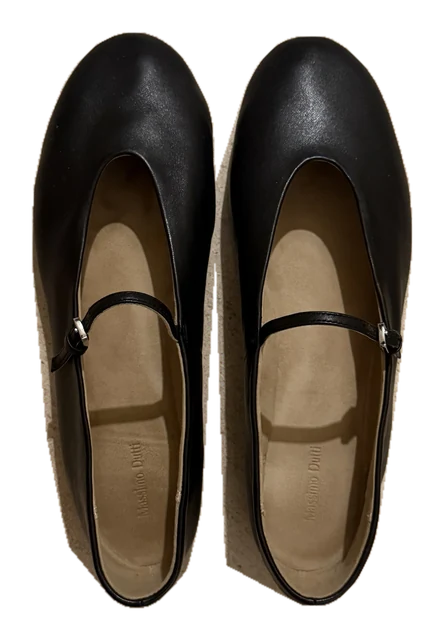
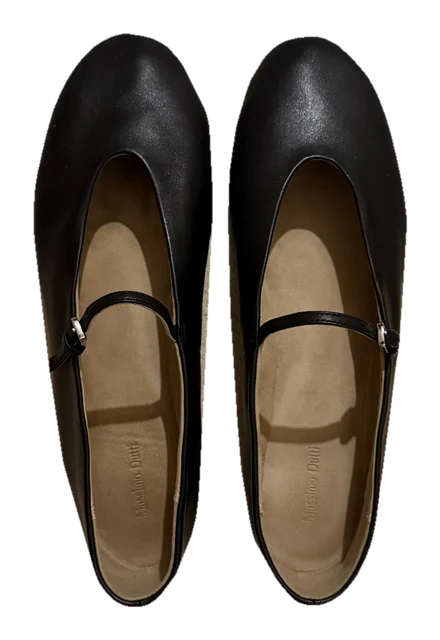
Cleaner shoe cut-outs
Claude-Session: https://claude.ai/code/session_015SQ6x2NYkgXhrEuzvt1gq2

diff --git a/index.html b/index.html
@@ -655,10 +655,10 @@ function seed(){
     {id:'i9',name:'Straight indigo jeans',short:'jeans',cat:'bottom',kind:'jeans',color:'#4A5A78',colorName:'Indigo',fabric:'Denim',warm:[0,26],care:'Machine wash cold',place:'Drawer'},
     {id:'i10',name:'Camel midi skirt',short:'midi skirt',cat:'bottom',kind:'skirt',color:'#B88A62',colorName:'Tan',fabric:'Suede',warm:[12,26],care:'Specialist clean',place:'Bedroom wardrobe'},
     {id:'i11',name:'Brick slip dress',short:'brick dress',cat:'dress',kind:'dress',color:'#7C3F2E',colorName:'Brick',fabric:'Satin',warm:[14,30],care:'Hand wash',place:'Bedroom wardrobe',fav:true},
-    {id:'i19',name:'Brown mary janes',short:'brown mary janes',cat:'shoes',kind:'loafers',color:'#6B3F26',colorName:'Chocolate',fabric:'Leather',brand:'Massimo Dutti',warm:[10,30],noRain:true,care:'Polish',place:'Shoe rack',src:'photos/pieces/shoes-brown-mary-janes.webp'},
-    {id:'i21',name:'Black mary janes',short:'black mary janes',cat:'shoes',kind:'loafers',color:'#1F1B19',colorName:'Black',fabric:'Leather',brand:'Massimo Dutti',warm:[10,30],noRain:true,care:'Polish',place:'Shoe rack',src:'photos/pieces/shoes-black-mary-janes.webp'},
-    {id:'i12',name:'Black chain loafers',short:'loafers',cat:'shoes',kind:'loafers',color:'#1F1B19',colorName:'Black',fabric:'Leather',brand:'Aldo',warm:[4,28],care:'Polish',place:'Shoe rack',src:'photos/pieces/shoes-black-loafers.webp'},
-    {id:'i13',name:'Black ankle boots',short:'ankle boots',cat:'shoes',kind:'boots',color:'#1F1B19',colorName:'Black',fabric:'Leather',warm:[-5,17],rain:true,care:'Polish & waterproof',place:'Shoe rack',src:'photos/pieces/shoes-black-ankle-boots.webp'},
+    {id:'i19',name:'Brown mary janes',short:'brown mary janes',cat:'shoes',kind:'loafers',color:'#6B3F26',colorName:'Chocolate',fabric:'Leather',brand:'Massimo Dutti',warm:[10,30],noRain:true,care:'Polish',place:'Shoe rack',src:'photos/pieces/shoes-brown-mary-janes.webp?v=2'},
+    {id:'i21',name:'Black mary janes',short:'black mary janes',cat:'shoes',kind:'loafers',color:'#1F1B19',colorName:'Black',fabric:'Leather',brand:'Massimo Dutti',warm:[10,30],noRain:true,care:'Polish',place:'Shoe rack',src:'photos/pieces/shoes-black-mary-janes.webp?v=2'},
+    {id:'i12',name:'Black chain loafers',short:'loafers',cat:'shoes',kind:'loafers',color:'#1F1B19',colorName:'Black',fabric:'Leather',brand:'Aldo',warm:[4,28],care:'Polish',place:'Shoe rack',src:'photos/pieces/shoes-black-loafers.webp?v=2'},
+    {id:'i13',name:'Black ankle boots',short:'ankle boots',cat:'shoes',kind:'boots',color:'#1F1B19',colorName:'Black',fabric:'Leather',warm:[-5,17],rain:true,care:'Polish & waterproof',place:'Shoe rack',src:'photos/pieces/shoes-black-ankle-boots.webp?v=2'},
     {id:'i15',name:'Leather tote',short:'tote',cat:'bag',kind:'tote',color:'#B8875E',colorName:'Tan',fabric:'Leather',warm:[-10,40],care:'Condition',place:'Hall closet'},
     {id:'i17',name:'White broderie blouse',short:'broderie blouse',cat:'top',kind:'shirt',color:'#F4EFE8',colorName:'White',fabric:'Cotton broderie',warm:[12,28],care:'Machine wash 30°',place:'Bedroom wardrobe',fav:true},
     {id:'i18',name:'Pinstripe wide trousers',short:'pinstripe trousers',cat:'bottom',kind:'trousers',color:'#7A6B5F',colorName:'Taupe',fabric:'Wool blend',warm:[4,24],care:'Dry clean',place:'Bedroom wardrobe'},
@@ -678,10 +678,10 @@ function seed(){
   return {v:2,items,looks,favLooks:[],settings:{name:'Inês',city:'Lisbon'},shuffle:{}};
 }
 let S;
-const MY_SHOES=[{id:'i19',name:'Brown mary janes',short:'brown mary janes',cat:'shoes',kind:'loafers',color:'#6B3F26',colorName:'Chocolate',fabric:'Leather',brand:'Massimo Dutti',warm:[10,30],noRain:true,care:'Polish',place:'Shoe rack',src:'photos/pieces/shoes-brown-mary-janes.webp'},
-    {id:'i21',name:'Black mary janes',short:'black mary janes',cat:'shoes',kind:'loafers',color:'#1F1B19',colorName:'Black',fabric:'Leather',brand:'Massimo Dutti',warm:[10,30],noRain:true,care:'Polish',place:'Shoe rack',src:'photos/pieces/shoes-black-mary-janes.webp'},
-    {id:'i12',name:'Black chain loafers',short:'loafers',cat:'shoes',kind:'loafers',color:'#1F1B19',colorName:'Black',fabric:'Leather',brand:'Aldo',warm:[4,28],care:'Polish',place:'Shoe rack',src:'photos/pieces/shoes-black-loafers.webp'},
-    {id:'i13',name:'Black ankle boots',short:'ankle boots',cat:'shoes',kind:'boots',color:'#1F1B19',colorName:'Black',fabric:'Leather',warm:[-5,17],rain:true,care:'Polish & waterproof',place:'Shoe rack',src:'photos/pieces/shoes-black-ankle-boots.webp'}];
+const MY_SHOES=[{id:'i19',name:'Brown mary janes',short:'brown mary janes',cat:'shoes',kind:'loafers',color:'#6B3F26',colorName:'Chocolate',fabric:'Leather',brand:'Massimo Dutti',warm:[10,30],noRain:true,care:'Polish',place:'Shoe rack',src:'photos/pieces/shoes-brown-mary-janes.webp?v=2'},
+    {id:'i21',name:'Black mary janes',short:'black mary janes',cat:'shoes',kind:'loafers',color:'#1F1B19',colorName:'Black',fabric:'Leather',brand:'Massimo Dutti',warm:[10,30],noRain:true,care:'Polish',place:'Shoe rack',src:'photos/pieces/shoes-black-mary-janes.webp?v=2'},
+    {id:'i12',name:'Black chain loafers',short:'loafers',cat:'shoes',kind:'loafers',color:'#1F1B19',colorName:'Black',fabric:'Leather',brand:'Aldo',warm:[4,28],care:'Polish',place:'Shoe rack',src:'photos/pieces/shoes-black-loafers.webp?v=2'},
+    {id:'i13',name:'Black ankle boots',short:'ankle boots',cat:'shoes',kind:'boots',color:'#1F1B19',colorName:'Black',fabric:'Leather',warm:[-5,17],rain:true,care:'Polish & waterproof',place:'Shoe rack',src:'photos/pieces/shoes-black-ankle-boots.webp?v=2'}];
 function migShoes(T){if(!T||!T.items||(T.mig&&T.mig.shoes1))return;T.mig=T.mig||{};
   const keep=new Set(MY_SHOES.map(x=>x.id)),old=T.items.filter(i=>i.cat==='shoes');
   const map={};old.forEach(i=>{if(!keep.has(i.id))map[i.id]=i.kind==='boots'?'i13':'i19'});
@@ -734,8 +734,8 @@ async function loadWeather(){
    Each photographed look lists its pieces and one image per combination of visible layers.
    More looks can be added in photos/index.json using the same shape. */
 let PHOTOS=[{id:'look-001',items:['i1','i17','i18','i19','i20'],images:[
-  {show:['i1','i17','i18','i19','i20'],src:'photos/look-001-full.webp'},
-  {show:['i17','i18','i19','i20'],src:'photos/look-001-no-coat.webp'}]}];
+  {show:['i1','i17','i18','i19','i20'],src:'photos/look-001-full.webp?v=2'},
+  {show:['i17','i18','i19','i20'],src:'photos/look-001-no-coat.webp?v=2'}]}];
 const same=(a,b)=>a.length===b.length&&a.every(x=>b.includes(x));
 const photoFor=ids=>PHOTOS.find(p=>same(p.items,ids));
 const imageFor=(p,vis)=>{const m=p.images.find(im=>same(im.show,vis));return m&&m.src};
